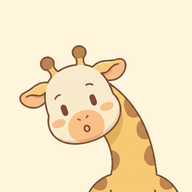
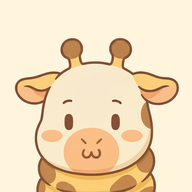
기웃이 목 짧은 그림으로 교체: 아이콘·파비콘·하단 그림 (D-052)
Claude-Session: https://claude.ai/code/session_013jA894Bt2MzmHHFVgGmZUc

diff --git a/index.html b/index.html
@@ -34,7 +34,7 @@
     </div>
     <p class="note" data-nosnippet>안드로이드 폰 · 무료 · 약 5분이면 시작해요. 정식 출시 뒤에는 Play 스토어에서 받을 수 있어요.</p>
   </div>
-  <img class="kiwoot" src="img/kiwoot.webp" alt="기웃이: 목이 긴 아기 기린 마스코트" width="376" height="520">
+  <img class="kiwoot" src="img/kiwoot.webp" alt="기웃이: 아기 기린 마스코트" width="376" height="520">
 </div>
 
 <section aria-label="앱 화면">
